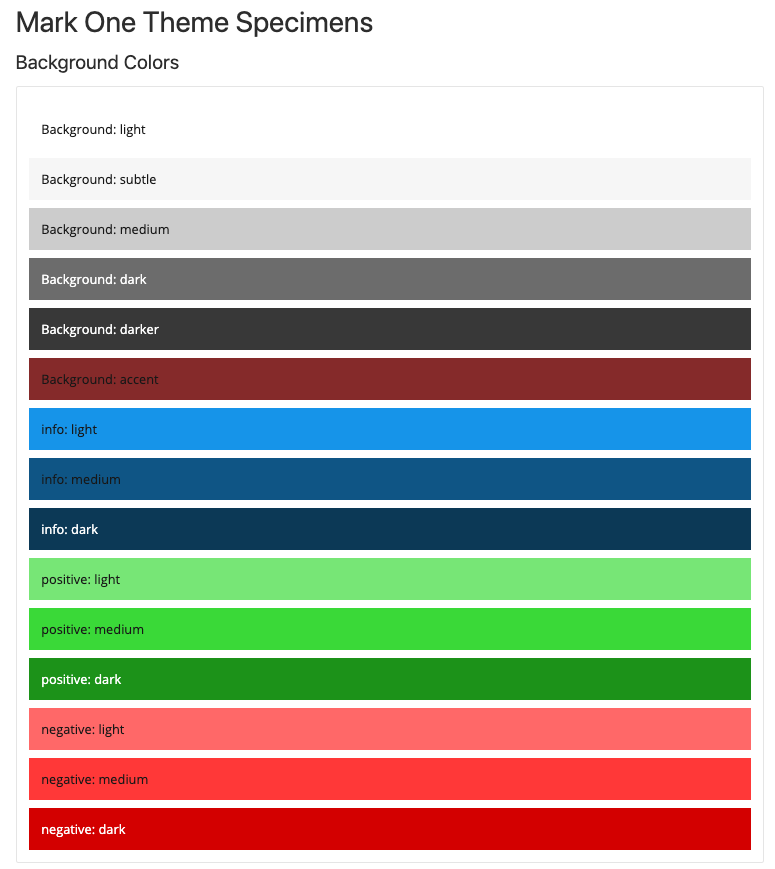
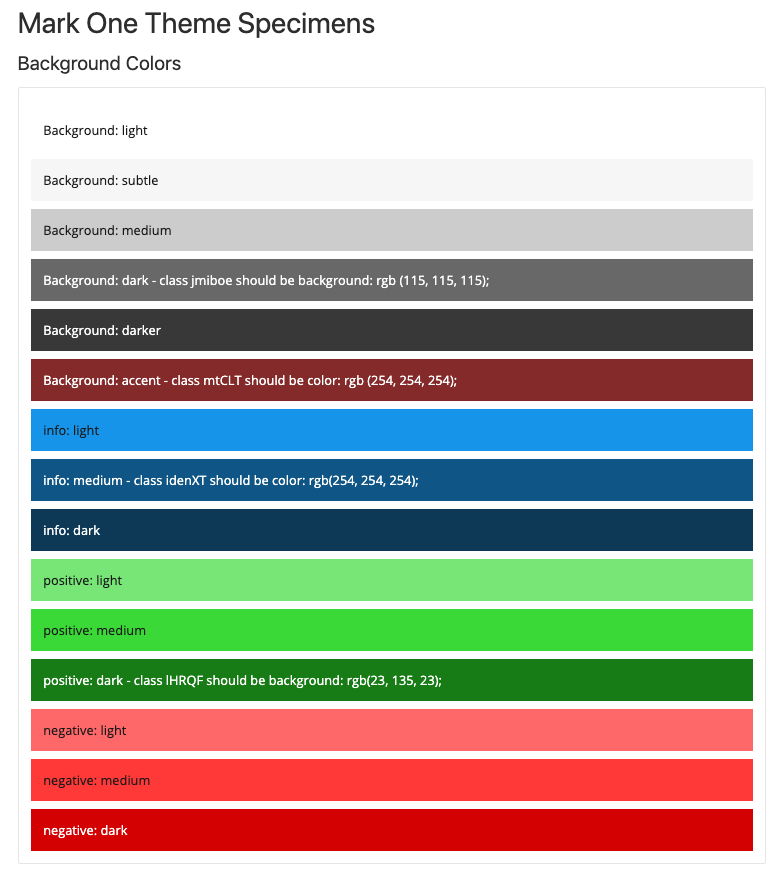
Add files via upload

diff --git a/mark-one_colors/index.html b/mark-one_colors/index.html
@@ -1,4 +1,4 @@
-<!-- Current UI code on https://seas-computing.github.io/mark-one/#mark-one-theme-specimens -->
+<!-- Proposed accessibility colors for https://seas-computing.github.io/mark-one/#mark-one-theme-specimens -->
 
 <div class="rsg--preview-35" data-preview="MarkOneWrapper">
     <div>
@@ -6,15 +6,19 @@
             <div value="light" class="sc-gqjmRU ccMzfd">Background: light</div>
             <div value="subtle" class="sc-gqjmRU dPKwax">Background: subtle</div>
             <div value="medium" class="sc-gqjmRU mwVXH">Background: medium</div>
-            <div value="dark" class="sc-gqjmRU jniboe">Background: dark</div>
+            <div value="dark" class="sc-gqjmRU jniboe">Background: dark - class jmiboe should be background: rgb(115,
+                115, 115)</div>
             <div value="darker" class="sc-gqjmRU isYYzO">Background: darker</div>
-            <div value="accent" class="sc-gqjmRU mtCLT">Background: accent</div>
+            <div value="accent" class="sc-gqjmRU mtCLT">Background: accent - class mtCLT should be color: rgb(194, 194,
+                194)</div>
             <div value="light" class="sc-gqjmRU fDrUPT">info: light</div>
-            <div value="medium" class="sc-gqjmRU idenXT">info: medium</div>
+            <div value="medium" class="sc-gqjmRU idenXT">info: medium - class idenXT should be color: rgb(214, 214, 214)
+            </div>
             <div value="dark" class="sc-gqjmRU egagnU">info: dark</div>
             <div value="light" class="sc-gqjmRU HYBmM">positive: light</div>
             <div value="medium" class="sc-gqjmRU gERdYN">positive: medium</div>
-            <div value="dark" class="sc-gqjmRU lHRQF">positive: dark</div>
+            <div value="dark" class="sc-gqjmRU lHRQF">positive: dark - class lHRQF should be background: rgb(23, 135,
+                23)</div>
             <div value="light" class="sc-gqjmRU jbflBj">negative: light</div>
             <div value="medium" class="sc-gqjmRU cvxwPV">negative: medium</div>
             <div value="dark" class="sc-gqjmRU dsyElU">negative: dark</div>
